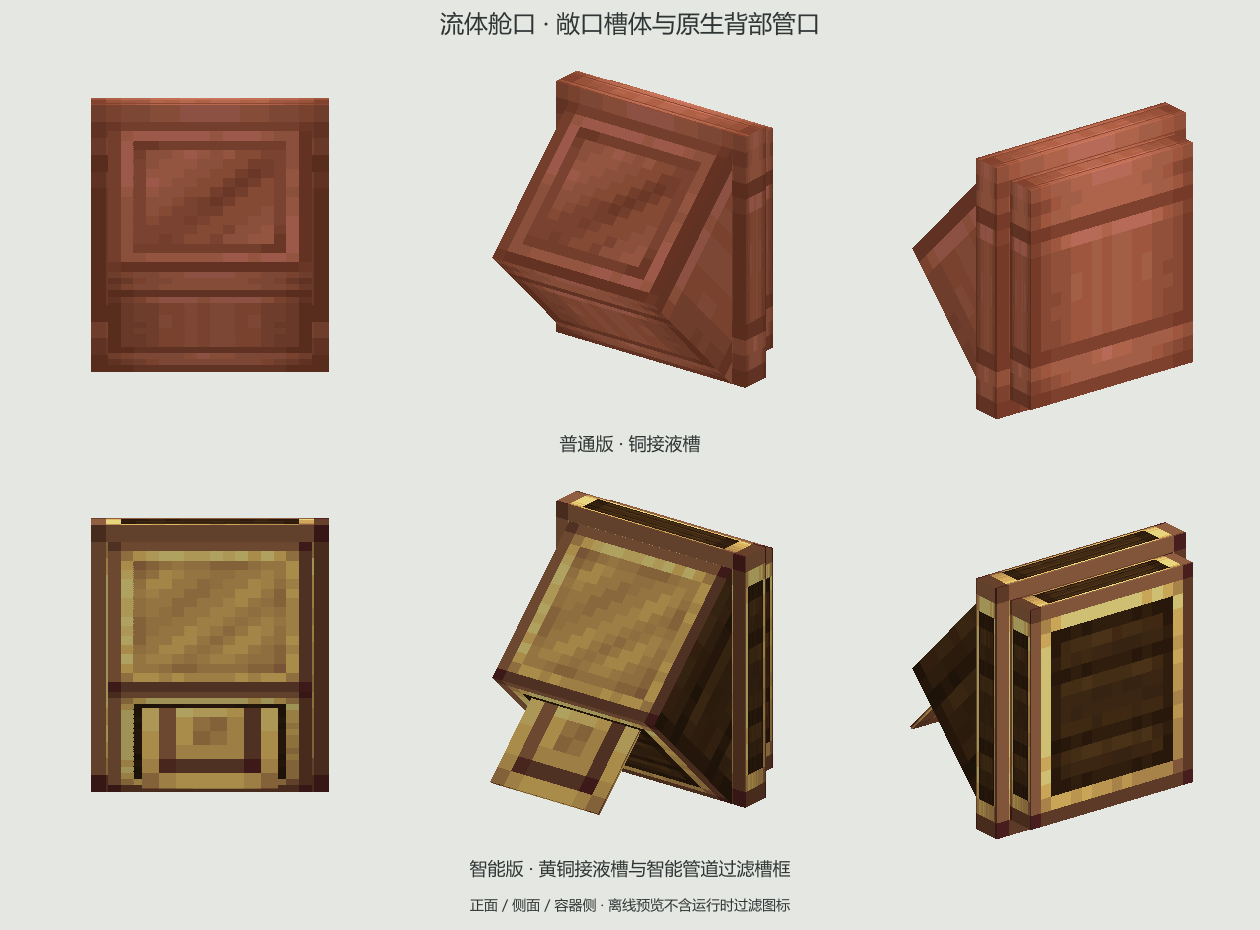
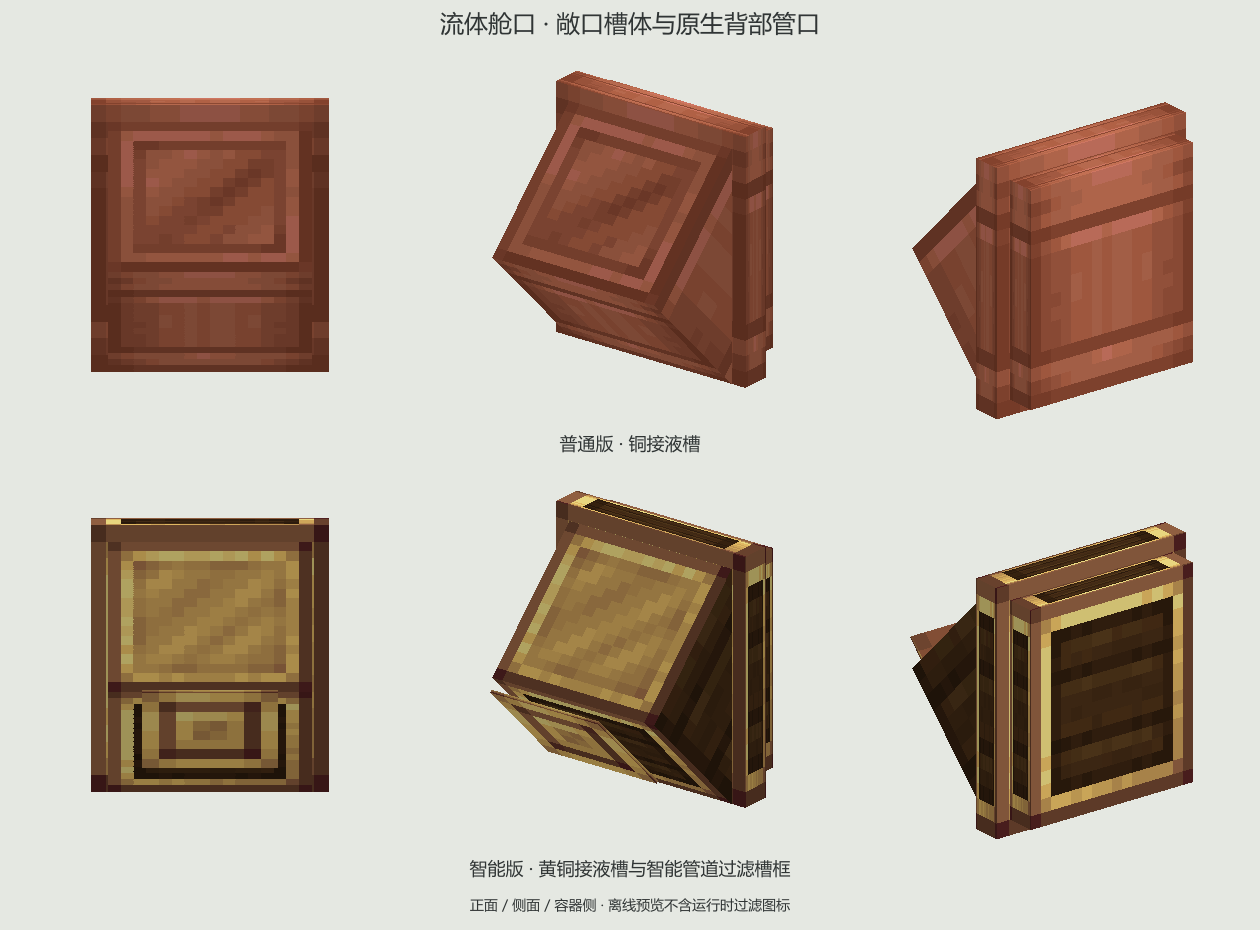
Correct smart hatch filter bezel tilt direction

diff --git a/tools/reference-native-hatch-materials.py b/tools/reference-native-hatch-materials.py
@@ -34,11 +34,13 @@ for name,body,lid in [('fluid_hatch','fluid_tank','copper_underside'),('smart_fl
         elements[2]['faces'][side]['texture']='#side'
     if name=='smart_fluid_hatch':
         # The outward face sits just behind HatchFilterSlot's (8,5.15,9.5)
-        # origin, with its native -45 degree tilt. Icon and hitbox stay unchanged.
+        # origin. NORTH hatch orientation turns the native filter transform's
+        # local -45 degree tilt into +45 degrees on the model's south face.
+        # Icon and hitbox stay unchanged.
         elements.append({
             'name':'smart_pipe_filter_slot',
             'from':[4,1.15,9.28],'to':[12,9.15,9.48],
-            'rotation':{'angle':-45,'axis':'x','origin':[8,5.15,9.5]},
+            'rotation':{'angle':45,'axis':'x','origin':[8,5.15,9.5]},
             'faces':{
                 'south':{'texture':'#filter','uv':[8,8,16,16]},
                 'north':{'texture':'#filter','uv':[0,8,8,16]},

diff --git a/docs/tank-style-hatches.md b/docs/tank-style-hatches.md
@@ -1,6 +1,6 @@
 # 舱口原生材质试稿
 
-过滤槽补充：智能版在原生 HatchFilterSlot 的 (8,5.15,9.5) 中心增加薄槽框，倾角 -45°，直接引用 Create `smart_pipe_2` 的过滤槽 UV。过滤图标与点击位置保持不变，普通版外观不变。
+过滤槽补充：智能版在原生 HatchFilterSlot 的 (8,5.15,9.5) 中心增加薄槽框，模型局部倾角 +45°，直接引用 Create `smart_pipe_2` 的过滤槽 UV。已修正最初误用 -45° 导致槽框向下伸出的方向错误。过滤图标与点击位置保持不变，普通版外观不变。
 
 最新修正：保留第一版几何，斜盖两侧恢复原生三角透明遮罩和对应 UV 旋转，仅裁掉后方露出的部分。两张 `side_clipped.png` 使用原版铜／黄铜像素与 Create 舱口透明通道派生；其余表面仍引用原版材质，不添加敞口、背部管口或槽框。
 
